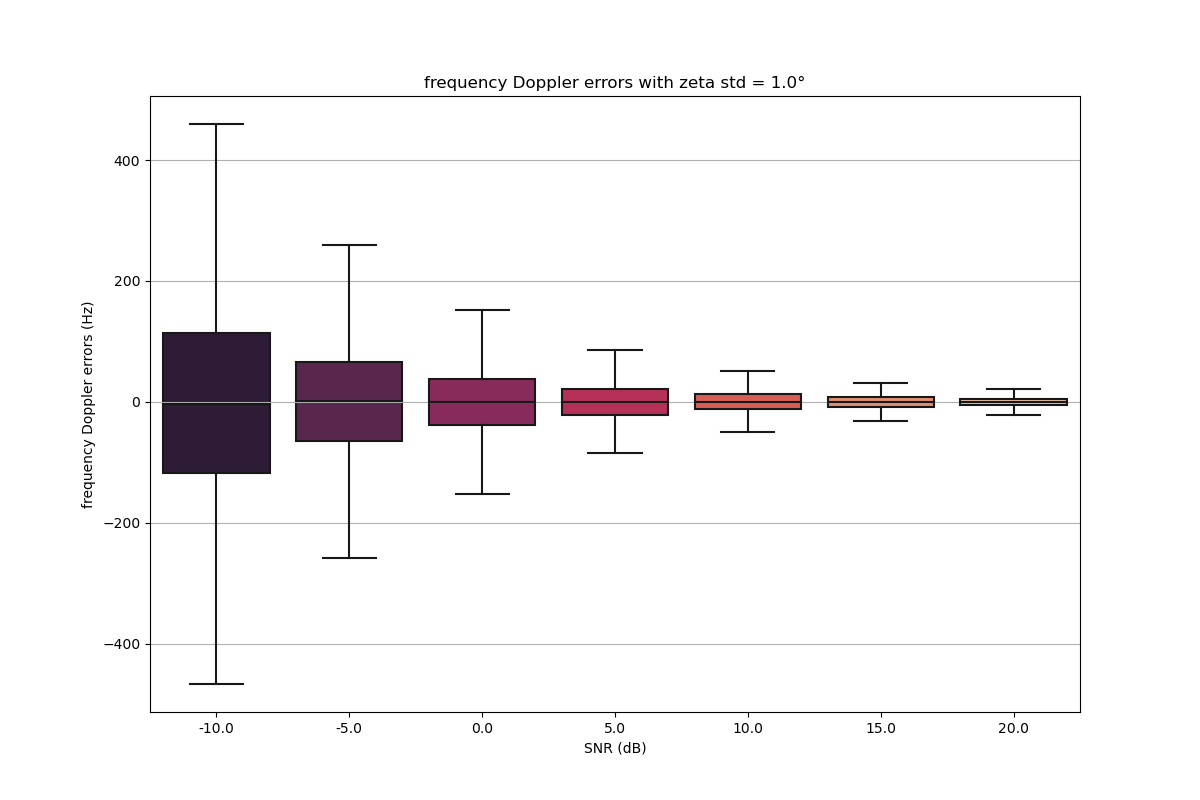
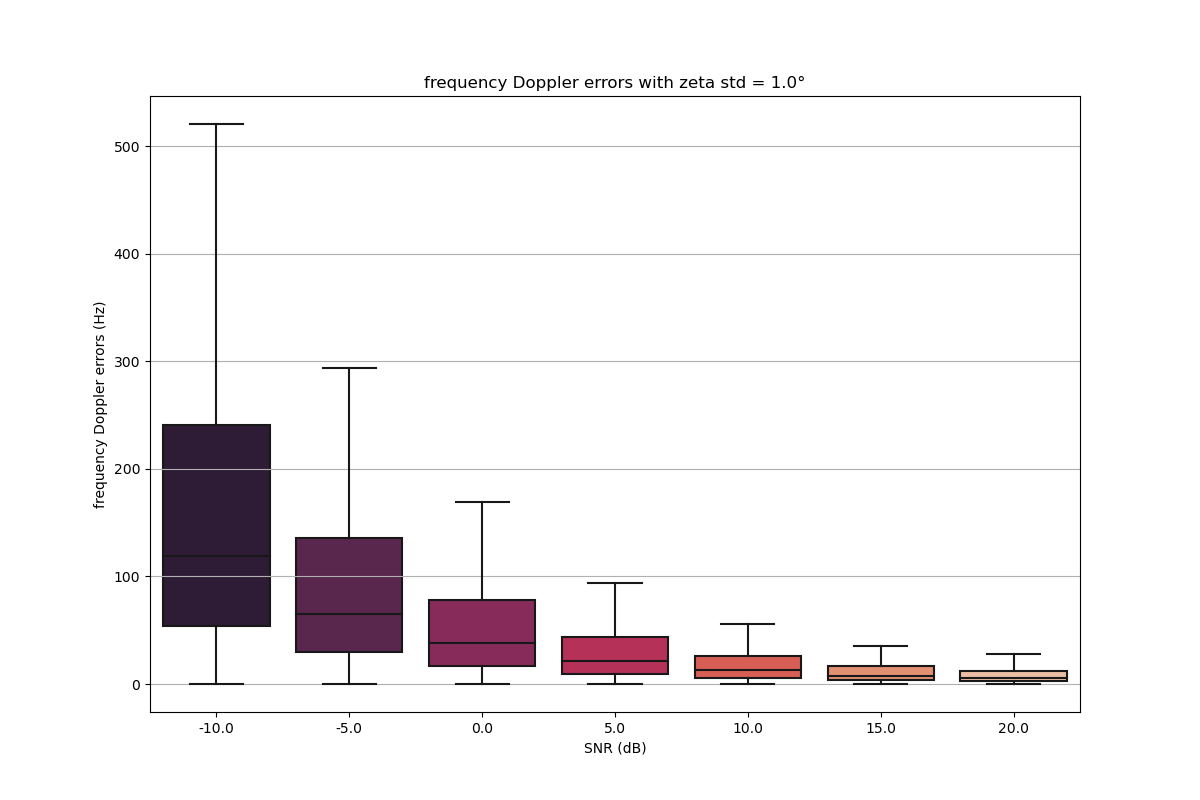
averaged results

diff --git a/simulation.py b/simulation.py
@@ -3,6 +3,16 @@ import matplotlib.pyplot as plt
 import seaborn as sns
 
 def solve_system(noise, zeta_std, phase_std, zetas, phases, T=0.27*10**(-3), l=0.005):
+    """
+        noise: wether to add noise to phases and angle of arrivals;
+        zeta_std: standard deviation for the noise variable regarding the angle of arrivals;
+        phase_std: standard deviation for the noise variable regarding the measured phase;
+        zetas: angle of arrivals;
+        phases: measured phases;
+        T: sampling period;
+        l: wavelength.
+        Solve the system for the received input parameters and returns the variables of the system.
+    """
     if noise:
         n_zetas = zetas + np.random.normal(0,zeta_std,3)
         n_phases = phases + np.random.normal(0,phase_std,4)
@@ -30,7 +40,10 @@ def solve_system(noise, zeta_std, phase_std, zetas, phases, T=0.27*10**(-3), l=0
     f_off = n_phases[3]/(2*np.pi*T)-((n_phases[2]-n_phases[3])*np.cos(eta[0])/(np.cos(n_zetas[2]-eta[0])-np.cos(eta[0])))
     return eta, f_d, v, f_off, alpha, delta, gamma, n_zetas
 
-def check_phases(eta, f_d, v, f_off, zetas, T=0.27*10**(-3), l=0.005, k=1):
+def get_phases(eta, f_d, v, f_off, zetas, T=0.27*10**(-3), l=0.005, k=1):
+    """
+        Solve the system for the received input parameters and returned the computed phases.
+    """
     c_phases = np.zeros(4)
     c_phases[0] = (2*np.pi*T*(f_d+(v/l*np.cos(zetas[0]-eta))+(k*f_off[0]-(k-1)*f_off[1])))#%np.pi
     c_phases[1] = (2*np.pi*T*(v/l*np.cos(zetas[1]-eta)+(k*f_off[0]-(k-1)*f_off[1])))#%np.pi
@@ -46,7 +59,7 @@ def boxplot_plot(errors, xlabel, ylabel, xticks, title, name=''):
     ax = sns.boxplot(data=errors, orient='v', palette='rocket', showfliers=False)
     plt.xticks(np.arange(len(xticks)), xticks)
     plt.title(title)
-    plt.savefig('plots/'+name+'.png')
+    plt.savefig('plots/averaged_results/'+name+'.png')
     plt.show()
 
 def check_system():
@@ -55,12 +68,18 @@ def check_system():
         phases = np.random.uniform(0,2*np.pi,4)
         eta_n, f_d_n, v_n, f_off_n, alpha_n, delta_n, gamma_n, n_zetas = solve_system(False, 0, 0, zetas, phases)
         
-        c_phases = check_phases(eta_n[0], f_d_n[0], v_n[0], f_off_n[0], zetas)
+        c_phases = get_phases(eta_n[0], f_d_n[0], v_n[0], f_off_n[0], zetas)
         for j in range(4):
             if c_phases[j]-phases[j] > 10**(-10):
                 print(c_phases[j]-phases[j])
 
 def get_input(k=1):
+    """
+    k=1 it represents the discrete time variable, we assume it equal to 1, 
+    but it does not the computation regarding the Doppler frequency.
+    
+    Returns realistic values of: \n measured phases, angle of arrivals, and variables. 
+    """
     f_d = np.random.uniform(-1000,1000)
     f_off = np.random.normal(100000,10000,2)
     v = np.random.uniform(-5,5)
@@ -77,10 +96,12 @@ def get_input(k=1):
                 #print('problem 2')
         if check:
             break
-    phases = check_phases(eta, f_d, v, f_off, zetas, k=k)
+    phases = get_phases(eta, f_d, v, f_off, zetas, k=k)
     return phases, zetas, eta, f_d, v, k*f_off[0]-(k-1)*f_off[1]
 
 SNR = np.array([-10,-5,0,5,10,15,20])
+N = 10000 # number of simulations
+interval = 100 # number of samples in which variables can be considered constant 
 SNR = np.power(10,SNR/10)
 p_std = np.sqrt(1/(2*256*SNR))
 zeta_std = [1,3,5,7,10]
@@ -90,24 +111,32 @@ for z_std in np.deg2rad(zeta_std):
     tot_v_error = []
     tot_f_off_error = []
     for phase_std,snr in zip(p_std,SNR):
-        N = 10000 # number of simulations
         eta_error = []
         f_d_error = []
         f_off_error = []
         v_error = []
         for i in range(N):
             phases,zetas,eta,f_d,v,f_off = get_input()
-            eta_n, f_d_n, v_n, f_off_n, alpha_n, delta_n, gamma_n, n_zetas= solve_system(True, z_std, phase_std, zetas, phases)
-            eta_error.append(eta-eta_n[1])
-            f_d_error.append(f_d-f_d_n[0])
-            v_error.append(v-v_n[1])
-            f_off_error.append(f_off-f_off_n)
+            etas_n = []
+            f_ds_n = []
+            vs_n = []
+            f_offs_n = []
+            for i in range(interval):
+                eta_n, f_d_n, v_n, f_off_n, alpha_n, delta_n, gamma_n, n_zetas= solve_system(True, z_std, phase_std, zetas, phases)
+                etas_n.append(eta_n[1])
+                f_ds_n.append(f_d_n[0])
+                vs_n.append(v_n[1])
+                f_offs_n.append(f_off_n)
+            eta_error.append(eta-np.mean(etas_n))
+            f_d_error.append(np.sqrt((f_d-np.mean(f_ds_n))**2))
+            v_error.append(v-np.mean(vs_n))
+            f_off_error.append(f_off-np.mean(f_offs_n))
         tot_eta_error.append(eta_error)
         tot_f_d_error.append(f_d_error)
         tot_v_error.append(v_error)
         tot_f_off_error.append(f_off_error)
     boxplot_plot(tot_eta_error, "SNR (dB)", "eta errors (°)", 10*np.log10(SNR), "eta errors with zeta std = " + str(np.rad2deg(z_std)) + "°", 'eta_errors_zeta_std' + str(np.round(np.rad2deg(z_std),1)))
-    boxplot_plot(tot_f_d_error[2:], "SNR (dB)", "frequency Doppler errors (Hz)", 10*np.log10(SNR[2:]), "frequency Doppler errors with zeta std = " + str(np.rad2deg(z_std)) + "°", 'bfd_errors_zeta_std' + str(np.round(np.rad2deg(z_std),1)))
+    boxplot_plot(tot_f_d_error, "SNR (dB)", "frequency Doppler errors (Hz)", 10*np.log10(SNR), "frequency Doppler errors with zeta std = " + str(np.rad2deg(z_std)) + "°", 'fd_errors_zeta_std' + str(np.round(np.rad2deg(z_std),1)))
 
 print('eta mean error: ' + str(np.mean(eta_error)))
 print('Doppler mean error: ' + str(np.mean(f_d_error)))
